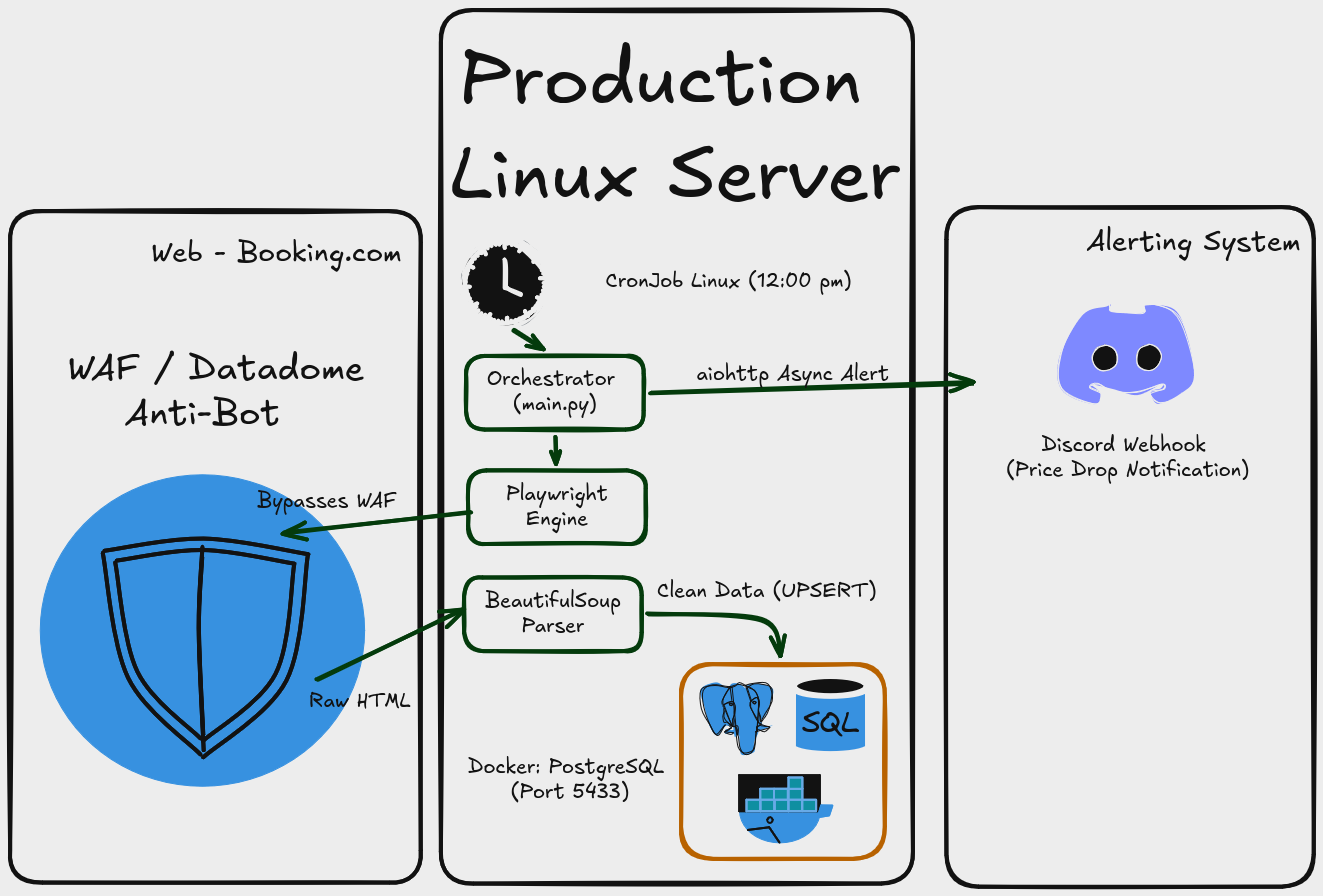
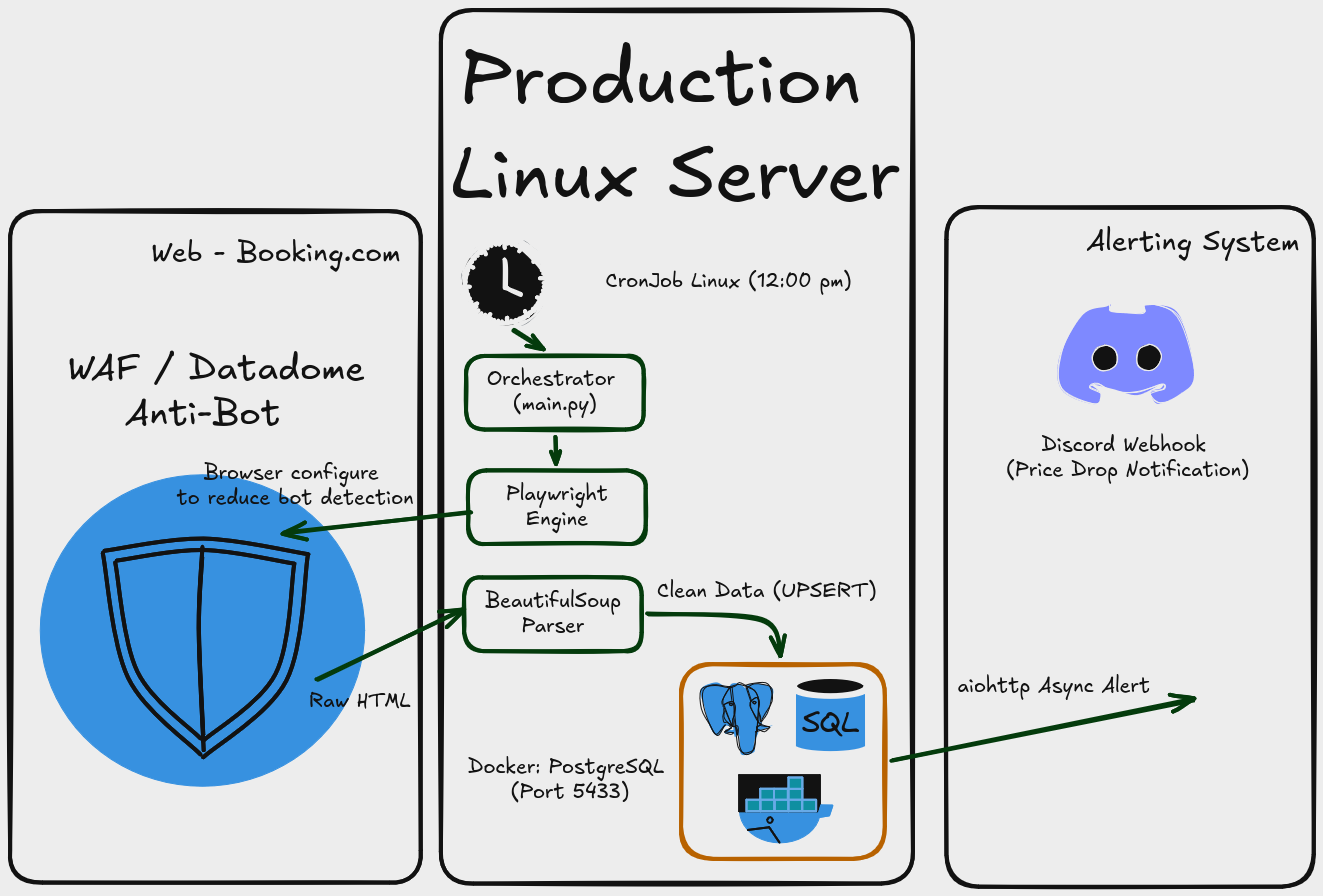
Modificación del README.md

diff --git a/src/main.py b/src/main.py
@@ -123,11 +123,11 @@ async def pipeline_principal(destino: str, entrada_str: str, salida_str: str):
 if __name__ == "__main__":
     # Configuración de argumentos de consola con banderas cortas y descripción explícita
     parser = argparse.ArgumentParser(description="Orquestador táctico de Scraping y Alertas")
-    parser.add_argument("-d", "--destino", type=str, required=True, help="Ciudad de destino para el análisis")
-    parser.add_argument("-e", "--entrada", type=str, required=True, help="Fecha de check-in (YYYY-MM-DD)")
-    parser.add_argument("-s", "--salida", type=str, required=True, help="Fecha de check-out (YYYY-MM-DD)")
+    parser.add_argument("--city", type=str, required=True, help="Ciudad de destino para el análisis")
+    parser.add_argument("--checkin", type=str, required=True, help="Fecha de check-in (YYYY-MM-DD)")
+    parser.add_argument("--checkout", type=str, required=True, help="Fecha de check-out (YYYY-MM-DD)")
     
     args = parser.parse_args()
     
-    logging.info(f"🏁 Ejecutando pipeline automatizado para {args.destino} ({args.entrada} -> {args.salida})")
-    asyncio.run(pipeline_principal(args.destino, args.entrada, args.salida))
+    logging.info(f"🏁 Ejecutando pipeline automatizado para {args.city} ({args.checkin} -> {args.checkout})")
+    asyncio.run(pipeline_principal(args.city, args.checkin, args.checkout))

diff --git a/README.md b/README.md
@@ -1,0 +1,128 @@
+# 🏨 Booking Price Radar
+
+![Python](https://img.shields.io/badge/Python-3-blue?style=for-the-badge&logo=python)
+![Playwright](https://img.shields.io/badge/Playwright-green?style=for-the-badge&logo=playwright)
+![PostgreSQL](https://img.shields.io/badge/PostgreSQL-16-blue?style=for-the-badge&logo=postgresql)
+![Docker](https://img.shields.io/badge/Docker-2496ED?style=for-the-badge&logo=docker)
+![Discord](https://img.shields.io/badge/Discord-Alerts-5865F2?style=for-the-badge&logo=discord)
+
+A Python automation project that monitors accommodation prices on Booking.com.
+
+The application scrapes hotel listings for a given destination and date range, stores the results in PostgreSQL and compares them with previous executions. If the price of an existing hotel drops, a Discord notification is automatically sent with the updated price.
+
+The project follows a simple ETL pipeline:
+
+- **Extract** hotel listings with Playwright.
+- **Transform** raw HTML into structured data using BeautifulSoup.
+- **Load** the results into PostgreSQL.
+- Compare prices with previous executions.
+- Send asynchronous Discord notifications when a price drop is detected.
+
+---
+
+# 🏗️ Architecture
+
+The project is divided into small modules, each one responsible for a single task.
+
+```text
+project/
+│
+├── scraper/
+│   └── engine.py          
+│
+├── parser/
+│   └── extractor.py       
+│
+├── models.py              
+├── notifier.py            
+├── main.py                
+├── run.sh
+└── docker-compose.yml
+```
+
+![Architecture](assets/architecture-web-scraping.png)
+
+---
+
+# 📸 Example Results
+
+## Discord Notification
+
+Whenever an existing hotel becomes cheaper than in a previous execution, the application automatically sends a Discord webhook notification.
+
+![Discord Alert](assets/discord-alert.png)
+
+---
+
+## PostgreSQL Persistence
+
+Hotel prices are stored in PostgreSQL and updated on every execution. The application compares each new extraction with the previous stored value to detect price changes.
+
+![Database](assets/dbeaver-hotels.png)
+
+---
+
+# 🛠️ Tech Stack
+
+- Python
+- Playwright
+- BeautifulSoup
+- SQLAlchemy
+- PostgreSQL
+- Docker
+- aiohttp
+- asyncio
+
+---
+
+# 🚀 Quick Start
+
+## 1. Start Infrastructure & Environment
+
+Start PostgreSQL and activate the virtual environment.
+
+```bash
+docker compose up -d
+source .venv/bin/activate
+```
+
+## 2. Configure the target
+
+Open `run.sh` and edit the destination and travel dates.
+
+```bash
+DESTINO="Praga"
+ENTRADA="2026-09-01"
+SALIDA="2026-09-15"
+```
+
+## 3. Run the scraper
+
+```bash
+./run.sh
+```
+
+---
+
+# ⚙️ How It Works
+
+1. Playwright launches a headless Chromium browser.
+2. The HTML is downloaded after the page finishes loading.
+3. BeautifulSoup extracts hotel names and prices.
+4. SQLAlchemy stores the data in PostgreSQL.
+5. Existing records are updated with the latest prices.
+6. If a hotel becomes cheaper than before, a Discord notification is sent asynchronously.
+
+---
+
+# 📌 Features
+
+- Modular project structure
+- Asynchronous scraping with Playwright
+- HTML parsing with BeautifulSoup
+- PostgreSQL persistence
+- SQLAlchemy ORM
+- Dockerized database
+- Discord webhook notifications
+- Configurable destination and travel dates
+- Automatic price comparison between executions